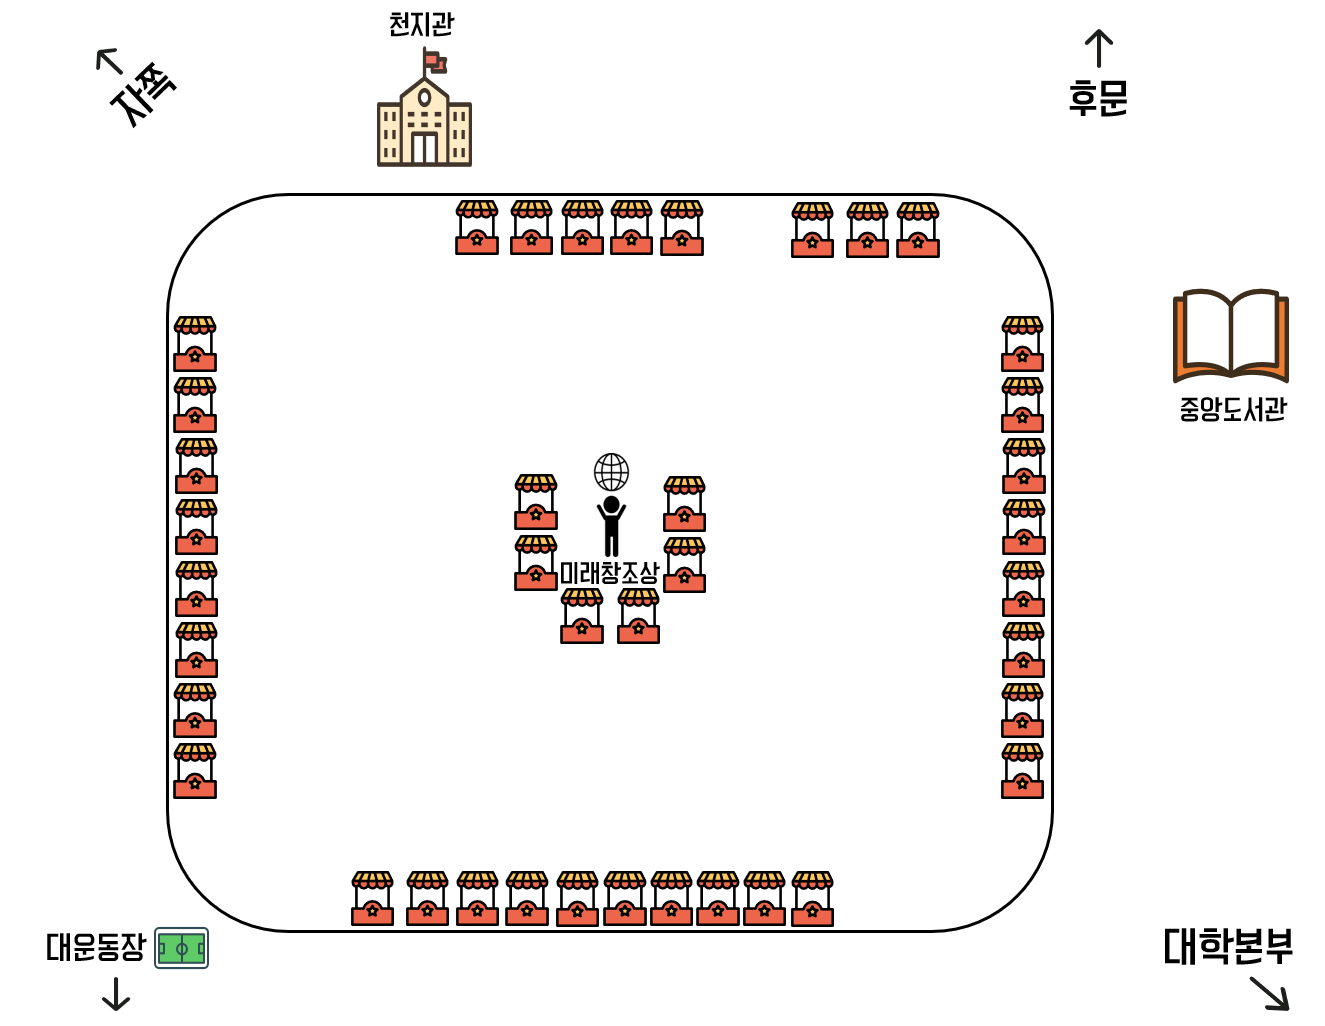
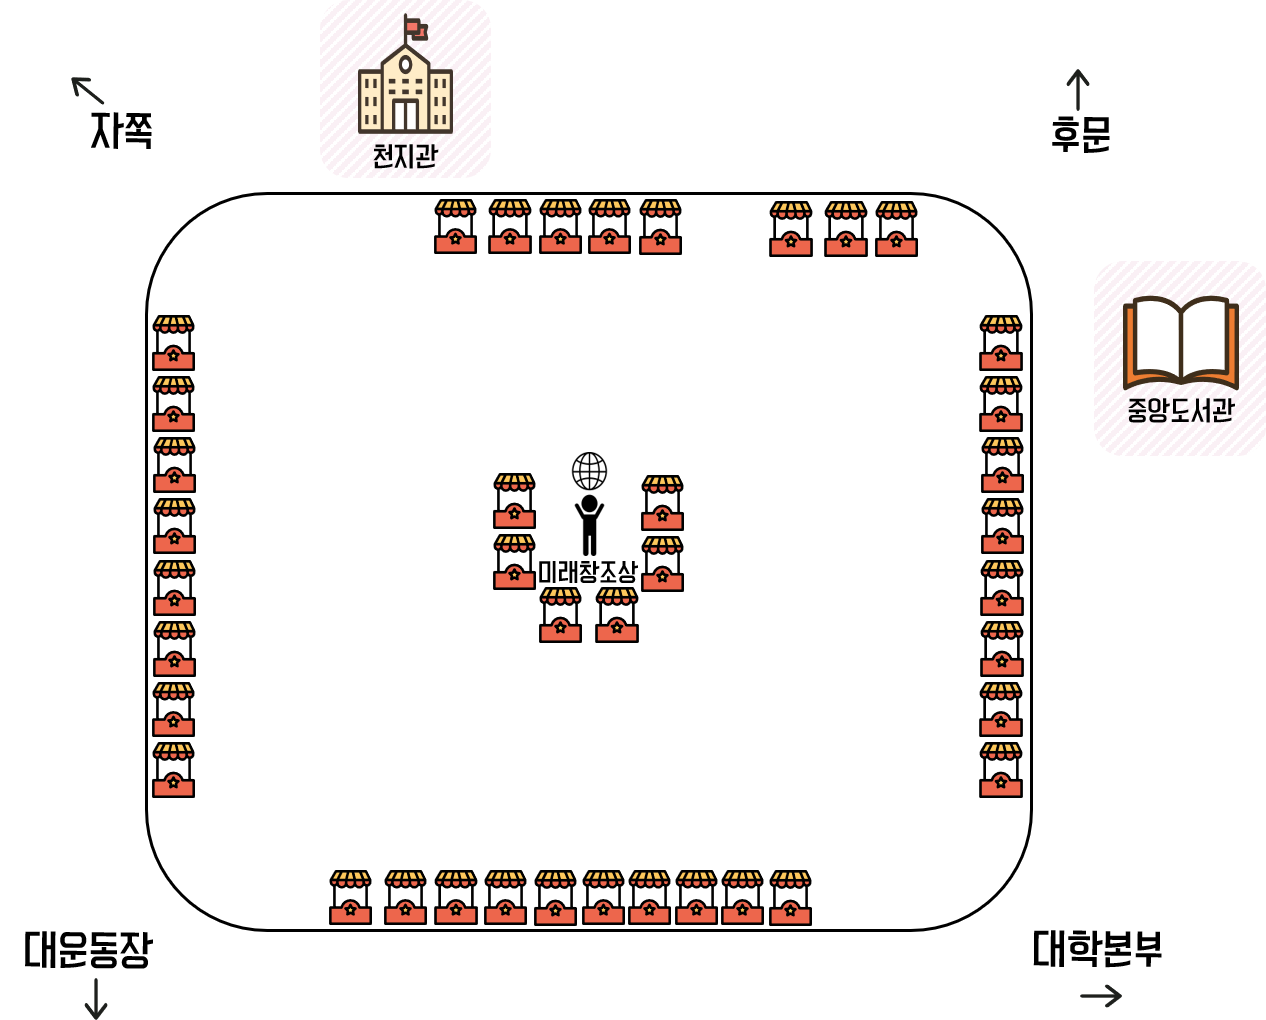
fix design

diff --git a/foodtruck/static/css/foodtruck.css b/foodtruck/static/css/foodtruck.css
@@ -1,6 +1,6 @@
 .foodMap{
 	width:100vw;
-	height:83vw;
+	height:75vw;
 	border-radius:20px;
 	background-color:#fff0f5;
 }
@@ -29,31 +29,30 @@ button{
 	display:flex;
 	font-size:1rem;
 	margin:0;
-	font-size: 0.8rem;
+	font-size: 0.7rem;
+	margin: 0 1.5vw 5vw 1.5vw;
 }
 
 .FT_1{
-	border-right: 3px solid white;
-	padding-right: 0;
-	flex-grow:1;
-	margin:3% 0 0 0;
+	border-right: 1px solid white;
+	padding-right: 1vw;
 	flex-grow:1;
 }
 
 .FT_2{
 	flex-grow:1;
-	margin-left: 0;
-	flex-grow:1;
+	margin-left: 2vw;
 }
 
 .Booth_1{
-	border-right: 3px solid white;
-	margin-right: 1%;
+	border-right: 1px solid white;
+	padding-right: 1vw;
 	flex-grow:1;
 }
 
 .Booth_2{
-	margin:3% 0 0 0;
+	border-right: 1px solid white;
+	padding-right: 1vw;
 	flex-grow:1;
 }
 
@@ -71,17 +70,22 @@ button{
 	width:40vw;
 	flex-grow:2;
 	padding:5%;
-	background-image: url(ex.png);
+	background-color: #fbf2f6;
+	border: 1px solid #f8dcdc;
+	border-radius: 10px;
+	margin-left:2vw;
+	text-align: center;
+	/* background-image: url(ex.png);
 	background-size: 100% 100%;
-	background-repeat: no-repeat;
+	background-repeat: no-repeat; */
 }
 
 .space{
-	padding-left:5vw;
 }
 
 p{
 	margin:0;
+	padding:0;
 }
 
 

diff --git a/foodtruck/templates/foodtruck.html b/foodtruck/templates/foodtruck.html
@@ -9,9 +9,9 @@
 {% block contents %}
 <meta name="viewport" content="width=device-width, initial-scale=1.0, maximum-scale=3.0">
 
-<div class = "Map">
-    <img class="foodMap" src="{% static "img/sixty2.png" %}">
-</div>
+
+<img class="foodMap" src="{% static "img/sixty2.png" %}">
+
 
 <div class="Mapleport">
     <button type="button" onclick="location.href='{% url 'foodtruck:haminseop' %}';">함인섭광장</button>
@@ -26,7 +26,6 @@
                 <img class="img" src="{% static "img/foodTruck.png" %}">
                 <div class="intro">
                     <p class="space">{{foodtruck.name}}</p>
-                    <p class="space">{{foodtruck.memo}}</p>
                 </div>
             </div>
         {% endfor %}
@@ -37,7 +36,6 @@
                 <img class="img" src="{% static "img/foodTruck.png" %}">
                 <div class="intro">
                     <p class="space">{{foodtruck.name}}</p>
-                    <p class="space">{{foodtruck.memo}}</p>
                 </div>
             </div>
         {% endfor %}        

diff --git a/foodtruck/templates/haminseop.html b/foodtruck/templates/haminseop.html
@@ -15,8 +15,8 @@
 </section>
 
 <div class="Mapleport">
-    <button type="button" onclick="location.href='{% url 'foodtruck:foodtruck' %}';">60주년 기념관</button>
     <button type="button" onclick="location.href='{% url 'foodtruck:mirae'%}';"> 미래광장 </button>
+    <button type="button" onclick="location.href='{% url 'foodtruck:foodtruck' %}';">60주년 기념관</button>
 </div>
 
 <div class="FTcontainer">
@@ -26,7 +26,6 @@
                 <img class="img" src="{% static "img/foodTruck.png" %}">
                 <div class="intro">
                     <p class="space">{{foodtruck1.name}}</p>
-                    <p class="space">{{foodtruck1.memo}}</p>
                 </div>
             </div>
         {% endfor %}
@@ -37,7 +36,6 @@
                 <img class="img" src="{% static "img/booth.png" %}">
                 <div class="intro">
                     <p class="space">{{booth1.name}}</p>
-                    <p class="space">{{booth1.memo}}</p>
                 </div>
             </div>
         {% endfor %}

diff --git a/foodtruck/templates/mirae.html b/foodtruck/templates/mirae.html
@@ -15,8 +15,8 @@
 </section>
 
 <div class="Mapleport">
-    <button type="button" onclick="location.href='{% url 'foodtruck:haminseop' %}';">함인섭광장</button>
     <button type="button" onclick="location.href='{% url 'foodtruck:foodtruck'%}';"> 60주년 기념관 </button>
+    <button type="button" onclick="location.href='{% url 'foodtruck:haminseop' %}';">함인섭광장</button>
 </div>
 
 <div class="FTcontainer">
@@ -26,7 +26,6 @@
                 <img class="img" src="{% static "img/booth.png" %}">
                 <div class="intro">
                     <p class="space">{{booth.name}}</p>
-                    <p class="space">{{booth.memo}}</p>
                 </div>
             </div>
         {% endfor %}
@@ -37,7 +36,6 @@
                 <img class="img" src="{% static "img/booth.png" %}">
                 <div class="intro">
                     <p class="space">{{booth.name}}</p>
-                    <p class="space">{{booth.memo}}</p>
                 </div>
             </div>
         {% endfor %}
